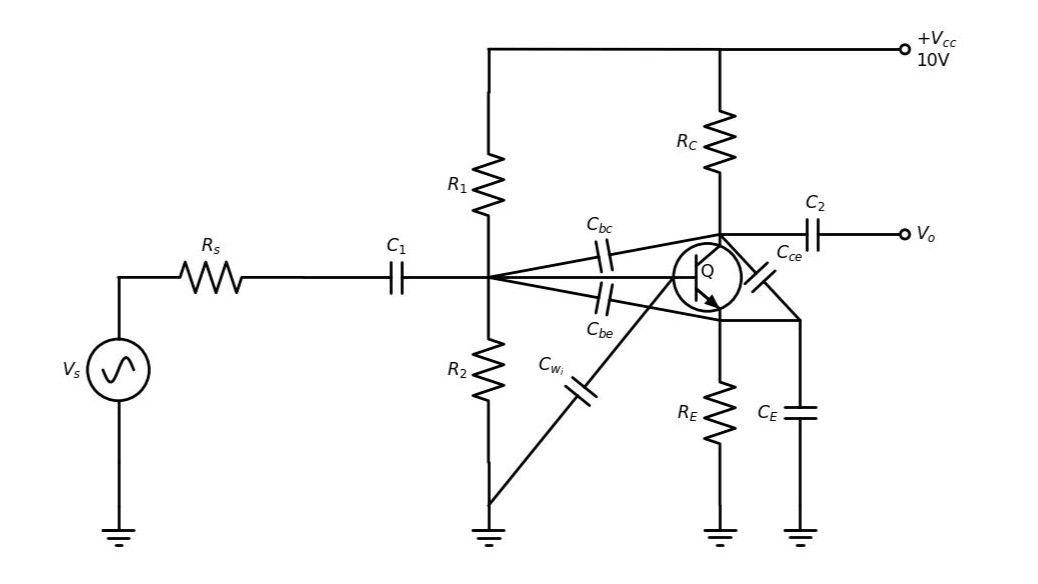
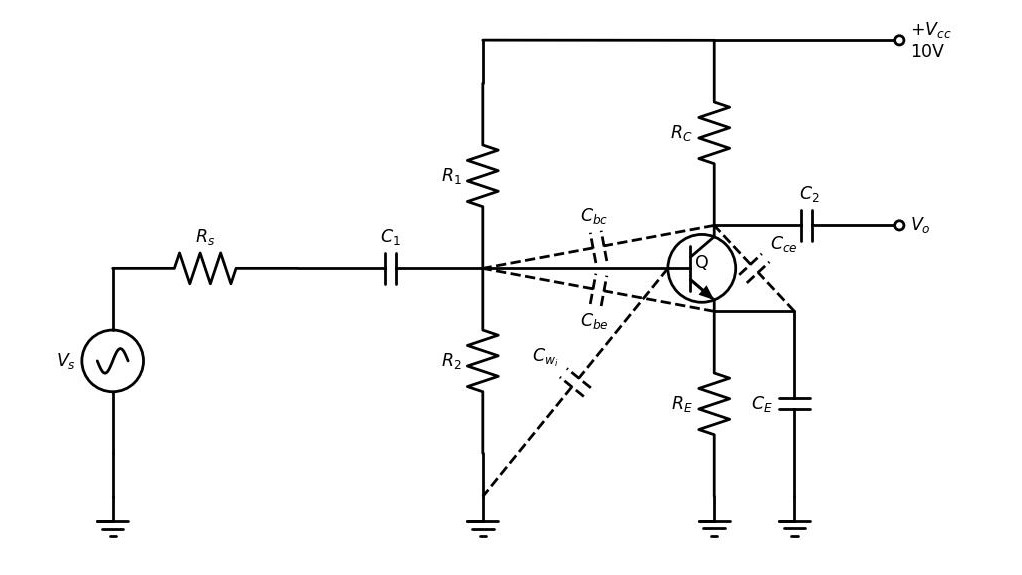
Corrected the circuit
I used dashed lines to represent the parasitic capacitances.

Changed region(s): [[0.0607, 0.0296, 0.9403, 0.9461], [0.5157, 0.5913, 0.5763, 0.7096], [0.5157, 0.7096, 0.546, 0.7687]]

diff --git a/Voltage Divider Bias AC analysis_3 at high freq eq ckt.py b/Voltage Divider Bias AC analysis_3 at high freq eq ckt.py
@@ -23,8 +23,8 @@ with schemdraw.Drawing() as d:
     d += (L4 := elm.Line().right().at(Q.emitter).length(1.3))
     d += (Ce := elm.Capacitor().down().at(L4.end).label('$C_E$'))
     d += (Gc := elm.Ground().at(Ce.end))
-    d += (C7 := elm.Capacitor().endpoints(R3.start, R2.start).label('$C_{bc}$', 'top'))
-    d += (C8 := elm.Capacitor().endpoints(R4.start, R2.start).label('$C_{be}$', 'bot'))
-    d += (C9 := elm.Capacitor().endpoints(Ce.start, C2.start).label('$C_{ce}$', 'top'))
-    d += (K1 := elm.Capacitor().down().endpoints(Q.base, G3.start).label('$C_{w_i}$', 'top'))
+    d += (C7 := elm.Capacitor().endpoints(R3.start, R2.start).linestyle('--').label('$C_{bc}$', 'top'))
+    d += (C8 := elm.Capacitor().endpoints(R4.start, R2.start).linestyle('--').label('$C_{be}$', 'bot'))
+    d += (C9 := elm.Capacitor().endpoints(Ce.start, C2.start).linestyle('--').label('$C_{ce}$', 'top'))
+    d += (K1 := elm.Capacitor().endpoints(Q.base, G3.start).linestyle('--').label('$C_{w_i}$', 'top'))
           
